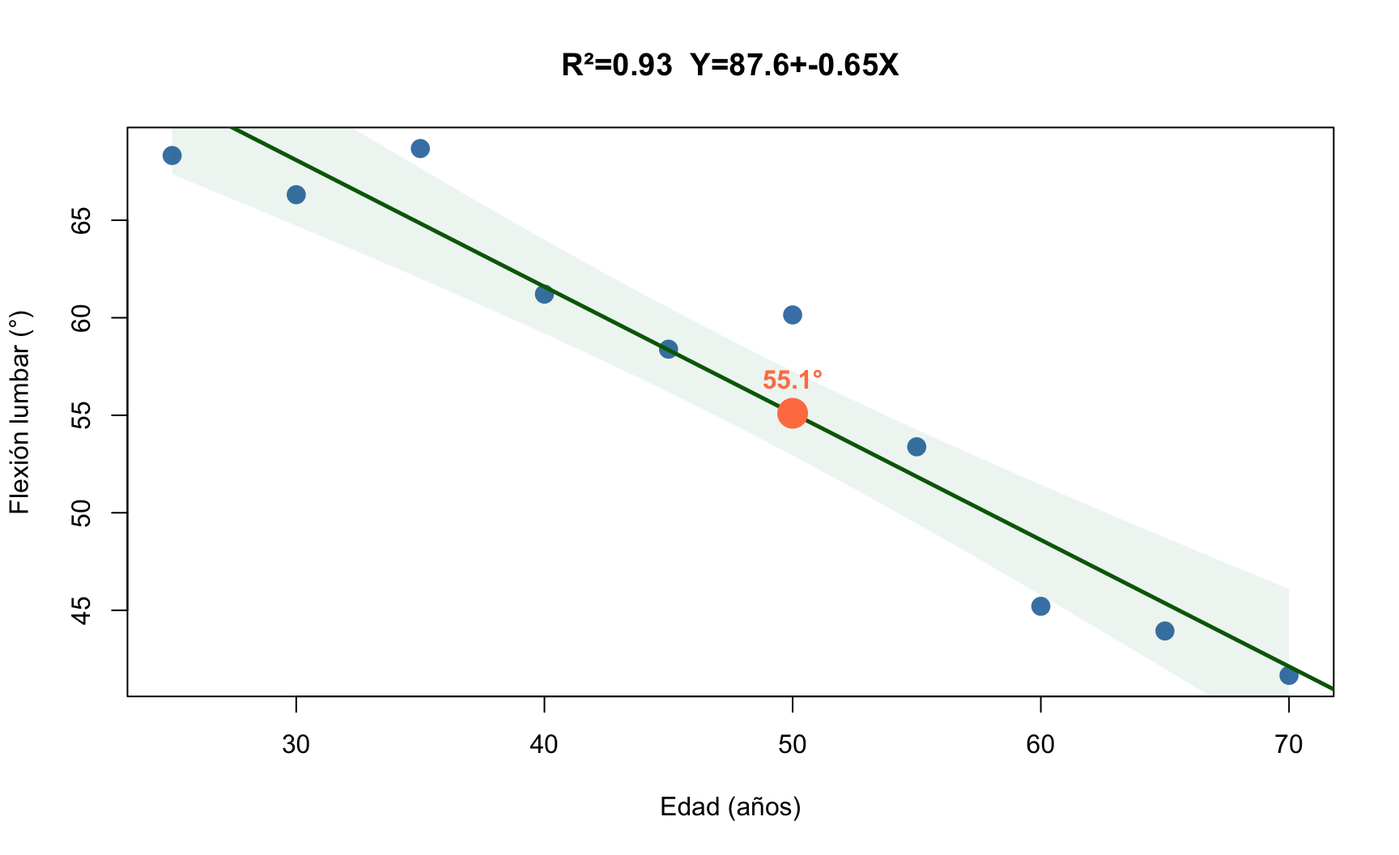
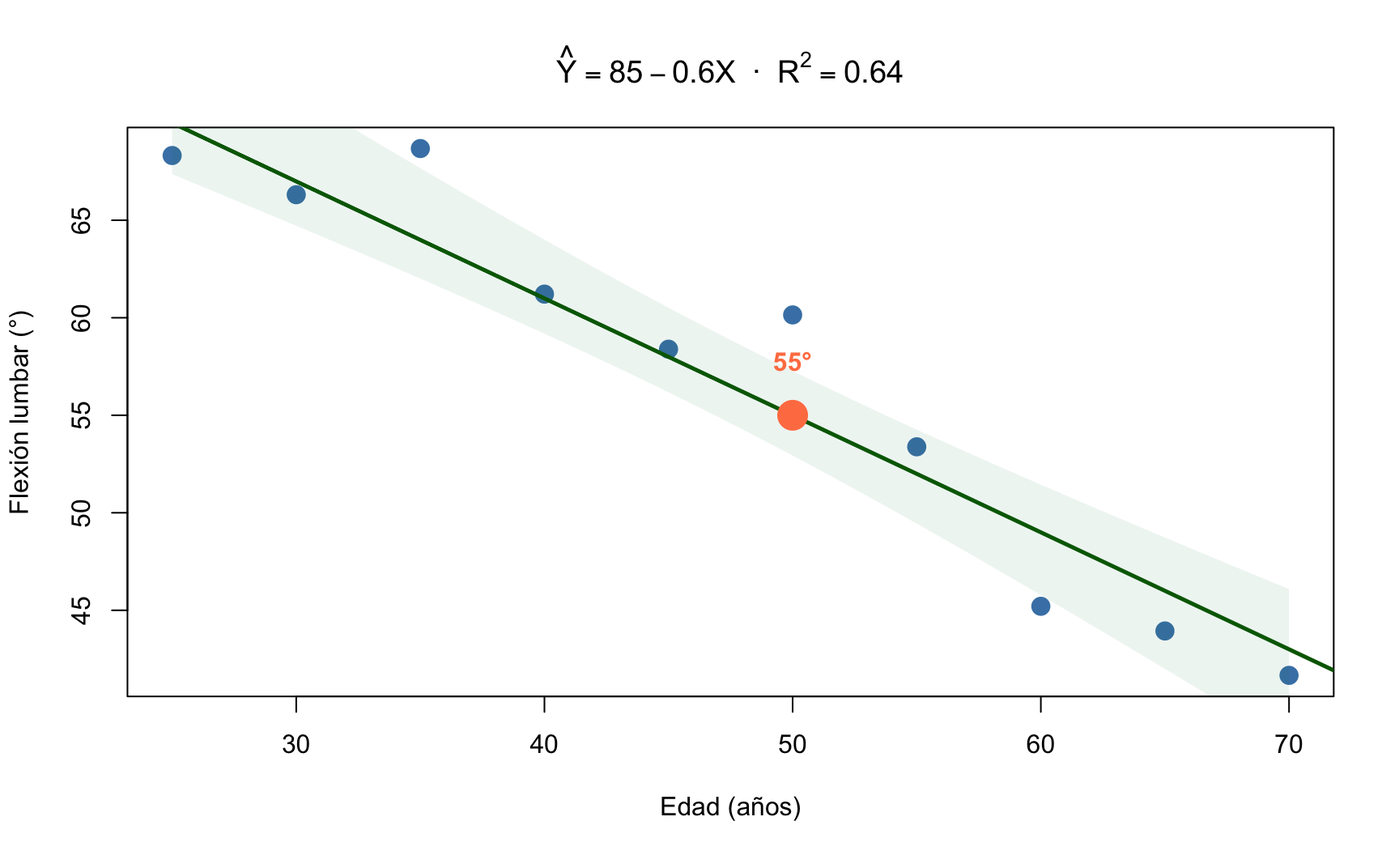
deploy: T06 code-fold + graph fix

diff --git a/gh-pages-content/T06_RegresionCorr.html b/gh-pages-content/T06_RegresionCorr.html
@@ -862,8 +862,11 @@ lm() b1 = 0.616</code></pre>
 <section id="ajuste-del-modelo-en-r-imc-vs.-graso" class="slide level2 center">
 <h2>Ajuste del modelo en R: Imc vs.&nbsp;% graso</h2>
 <div class="cell">
+<details class="code-fold">
+<summary>Mostrar código R</summary>
 <div class="code-copy-outer-scaffold"><div class="sourceCode cell-code" id="cb12"><pre class="sourceCode r code-with-copy"><code class="sourceCode r"><span id="cb12-1"><a aria-hidden="true" tabindex="-1"></a>modelo <span class="ot">&lt;-</span> <span class="fu">lm</span>(graso <span class="sc">~</span> imc)</span>
 <span id="cb12-2"><a aria-hidden="true" tabindex="-1"></a><span class="fu">summary</span>(modelo)</span></code></pre></div><button title="Copiar al portapapeles" class="code-copy-button"><i class="bi"></i></button></div>
+</details>
 <div class="cell-output cell-output-stdout">
 <pre><code>
 Call:
@@ -884,6 +887,8 @@ Residual standard error: 5.547 on 10 degrees of freedom
 Multiple R-squared:  0.3726,    Adjusted R-squared:  0.3099 
 F-statistic:  5.94 on 1 and 10 DF,  p-value: 0.03502</code></pre>
 </div>
+<details class="code-fold">
+<summary>Mostrar código R</summary>
 <div class="code-copy-outer-scaffold"><div class="sourceCode cell-code" id="cb14"><pre class="sourceCode r code-with-copy"><code class="sourceCode r"><span id="cb14-1"><a aria-hidden="true" tabindex="-1"></a><span class="co"># Visualización</span></span>
 <span id="cb14-2"><a aria-hidden="true" tabindex="-1"></a><span class="fu">par</span>(<span class="at">mfrow=</span><span class="fu">c</span>(<span class="dv">1</span>,<span class="dv">2</span>), <span class="at">mar=</span><span class="fu">c</span>(<span class="dv">4</span>,<span class="dv">4</span>,<span class="dv">3</span>,<span class="dv">1</span>))</span>
 <span id="cb14-3"><a aria-hidden="true" tabindex="-1"></a><span class="co"># Scatter + recta</span></span>
@@ -895,8 +900,12 @@ F-statistic:  5.94 on 1 and 10 DF,  p-value: 0.03502</code></pre>
 <span id="cb14-9"><a aria-hidden="true" tabindex="-1"></a><span class="fu">plot</span>(<span class="fu">fitted</span>(modelo), <span class="fu">residuals</span>(modelo), <span class="at">pch=</span><span class="dv">19</span>, <span class="at">col=</span><span class="st">"steelblue"</span>,</span>
 <span id="cb14-10"><a aria-hidden="true" tabindex="-1"></a>     <span class="at">main=</span><span class="st">"Residuos vs Ajustados"</span>, <span class="at">xlab=</span><span class="st">"Ajustados"</span>, <span class="at">ylab=</span><span class="st">"Residuos"</span>)</span>
 <span id="cb14-11"><a aria-hidden="true" tabindex="-1"></a><span class="fu">abline</span>(<span class="at">h=</span><span class="dv">0</span>, <span class="at">col=</span><span class="st">"grey"</span>, <span class="at">lty=</span><span class="dv">2</span>)</span></code></pre></div><button title="Copiar al portapapeles" class="code-copy-button"><i class="bi"></i></button></div>
+</details>
 
+<details class="code-fold">
+<summary>Mostrar código R</summary>
 <div class="code-copy-outer-scaffold"><div class="sourceCode cell-code" id="cb15"><pre class="sourceCode r code-with-copy"><code class="sourceCode r"><span id="cb15-1"><a aria-hidden="true" tabindex="-1"></a><span class="fu">par</span>(<span class="at">mfrow=</span><span class="fu">c</span>(<span class="dv">1</span>,<span class="dv">1</span>))</span></code></pre></div><button title="Copiar al portapapeles" class="code-copy-button"><i class="bi"></i></button></div>
+</details>
 </div>
 <img data-src="T06_RegresionCorr_files/figure-revealjs/unnamed-chunk-7-1.png" width="864" class="r-stretch"><p><strong>Resultados:</strong> - <span class="math inline">\(\hat{\beta}_0 = -13.96\)</span> (intercepto), <span class="math inline">\(\hat{\beta}_1 = 1.52\)</span> (pendiente) - <span class="math inline">\(R^2 = 0.373\)</span> (37.3% de variabilidad explicada), Error estándar residual <span class="math inline">\(s = 5.55\)</span> - <span class="math inline">\(P = 0.035\)</span> (pendiente significativa)</p>
 <p><strong>Interpretación:</strong> Por cada unidad de aumento en el IMC (kg/m²), el % de masa grasa aumenta en <strong>1.52 puntos porcentuales</strong> (IC 95%: 0.13 a 2.92).</p>
@@ -993,9 +1002,8 @@ summary(modelo)$sigma = 5.55</code></pre>
 
 <details class="code-fold">
 <summary>Mostrar código R</summary>
-<div class="code-copy-outer-scaffold"><div class="sourceCode cell-code" id="cb21"><pre class="sourceCode r code-with-copy"><code class="sourceCode r"><span id="cb21-1"><a aria-hidden="true" tabindex="-1"></a><span class="co">#| code-fold: false</span></span>
-<span id="cb21-2"><a aria-hidden="true" tabindex="-1"></a><span class="co"># Predicción para IMC = 22</span></span>
-<span id="cb21-3"><a aria-hidden="true" tabindex="-1"></a><span class="fu">predict</span>(modelo, <span class="at">newdata=</span><span class="fu">data.frame</span>(<span class="at">imc=</span><span class="dv">22</span>))</span></code></pre></div><button title="Copiar al portapapeles" class="code-copy-button"><i class="bi"></i></button></div>
+<div class="code-copy-outer-scaffold"><div class="sourceCode cell-code" id="cb21"><pre class="sourceCode r code-with-copy"><code class="sourceCode r"><span id="cb21-1"><a aria-hidden="true" tabindex="-1"></a><span class="co"># Predicción para IMC = 22</span></span>
+<span id="cb21-2"><a aria-hidden="true" tabindex="-1"></a><span class="fu">predict</span>(modelo, <span class="at">newdata=</span><span class="fu">data.frame</span>(<span class="at">imc=</span><span class="dv">22</span>))</span></code></pre></div><button title="Copiar al portapapeles" class="code-copy-button"><i class="bi"></i></button></div>
 </details>
 <div class="cell-output cell-output-stdout">
 <pre><code>       1 
@@ -1176,12 +1184,18 @@ sample estimates:
 <section id="correlación-en-r-pearson-y-spearman" class="slide level2 center">
 <h2>Correlación en R: Pearson y Spearman</h2>
 <div class="cell">
+<details class="code-fold">
+<summary>Mostrar código R</summary>
 <div class="code-copy-outer-scaffold"><div class="sourceCode cell-code" id="cb27"><pre class="sourceCode r code-with-copy"><code class="sourceCode r"><span id="cb27-1"><a aria-hidden="true" tabindex="-1"></a><span class="co"># Correlación de Pearson (paramétrica, lineal)</span></span>
 <span id="cb27-2"><a aria-hidden="true" tabindex="-1"></a><span class="fu">cor</span>(imc, graso)                    <span class="co"># r = 0.610</span></span></code></pre></div><button title="Copiar al portapapeles" class="code-copy-button"><i class="bi"></i></button></div>
+</details>
 <div class="cell-output cell-output-stdout">
 <pre><code>[1] 0.6104341</code></pre>
 </div>
+<details class="code-fold">
+<summary>Mostrar código R</summary>
 <div class="code-copy-outer-scaffold"><div class="sourceCode cell-code" id="cb29"><pre class="sourceCode r code-with-copy"><code class="sourceCode r"><span id="cb29-1"><a aria-hidden="true" tabindex="-1"></a><span class="fu">cor.test</span>(imc, graso)               <span class="co"># Test H0: ρ = 0</span></span></code></pre></div><button title="Copiar al portapapeles" class="code-copy-button"><i class="bi"></i></button></div>
+</details>
 <div class="cell-output cell-output-stdout">
 <pre><code>
     Pearson's product-moment correlation
@@ -1195,12 +1209,18 @@ sample estimates:
       cor 
 0.6104341 </code></pre>
 </div>
+<details class="code-fold">
+<summary>Mostrar código R</summary>
 <div class="code-copy-outer-scaffold"><div class="sourceCode cell-code" id="cb31"><pre class="sourceCode r code-with-copy"><code class="sourceCode r"><span id="cb31-1"><a aria-hidden="true" tabindex="-1"></a><span class="co"># Correlación de Spearman (no paramétrica, monótona)</span></span>
 <span id="cb31-2"><a aria-hidden="true" tabindex="-1"></a><span class="fu">cor</span>(imc, graso, <span class="at">method=</span><span class="st">"spearman"</span>)</span></code></pre></div><button title="Copiar al portapapeles" class="code-copy-button"><i class="bi"></i></button></div>
+</details>
 <div class="cell-output cell-output-stdout">
 <pre><code>[1] 0.5314685</code></pre>
 </div>
+<details class="code-fold">
+<summary>Mostrar código R</summary>
 <div class="code-copy-outer-scaffold"><div class="sourceCode cell-code" id="cb33"><pre class="sourceCode r code-with-copy"><code class="sourceCode r"><span id="cb33-1"><a aria-hidden="true" tabindex="-1"></a><span class="fu">cor.test</span>(imc, graso, <span class="at">method=</span><span class="st">"spearman"</span>)</span></code></pre></div><button title="Copiar al portapapeles" class="code-copy-button"><i class="bi"></i></button></div>
+</details>
 <div class="cell-output cell-output-stdout">
 <pre><code>
     Spearman's rank correlation rho
@@ -1641,8 +1661,11 @@ R: b0= -0.21  b1= 0.616</code></pre>
 </table>
 <p><span class="math display">\[R^2 = \frac{SC_{reg}}{SC_{tot}} = 1 - \frac{SC_{res}}{SC_{tot}}\]</span></p>
 <div class="cell">
+<details class="code-fold">
+<summary>Mostrar código R</summary>
 <div class="code-copy-outer-scaffold"><div class="sourceCode cell-code" id="cb45"><pre class="sourceCode r code-with-copy"><code class="sourceCode r"><span id="cb45-1"><a aria-hidden="true" tabindex="-1"></a>anova_modelo <span class="ot">&lt;-</span> <span class="fu">anova</span>(modelo)</span>
 <span id="cb45-2"><a aria-hidden="true" tabindex="-1"></a><span class="fu">print</span>(anova_modelo)</span></code></pre></div><button title="Copiar al portapapeles" class="code-copy-button"><i class="bi"></i></button></div>
+</details>
 <div class="cell-output cell-output-stdout">
 <pre><code>Analysis of Variance Table
 
@@ -1653,8 +1676,11 @@ Residuals 10 307.73  30.773
 ---
 Signif. codes:  0 '***' 0.001 '**' 0.01 '*' 0.05 '.' 0.1 ' ' 1</code></pre>
 </div>
+<details class="code-fold">
+<summary>Mostrar código R</summary>
 <div class="code-copy-outer-scaffold"><div class="sourceCode cell-code" id="cb47"><pre class="sourceCode r code-with-copy"><code class="sourceCode r"><span id="cb47-1"><a aria-hidden="true" tabindex="-1"></a><span class="fu">cat</span>(<span class="st">"R² ="</span>, <span class="fu">round</span>(s<span class="sc">$</span>r.squared, <span class="dv">4</span>),</span>
 <span id="cb47-2"><a aria-hidden="true" tabindex="-1"></a>    <span class="st">"</span><span class="sc">\n</span><span class="st">R² ajustado ="</span>, <span class="fu">round</span>(s<span class="sc">$</span>adj.r.squared, <span class="dv">4</span>))</span></code></pre></div><button title="Copiar al portapapeles" class="code-copy-button"><i class="bi"></i></button></div>
+</details>
 <div class="cell-output cell-output-stdout">
 <pre><code>R² = 0.3726 
 R² ajustado = 0.3099</code></pre>
@@ -1713,8 +1739,11 @@ R² ajustado = 0.3099</code></pre>
 <p><strong>Test F:</strong> <span class="math inline">\(H_0: \beta_1 = 0\)</span> (no hay relación lineal) vs <span class="math inline">\(H_1: \beta_1 \neq 0\)</span></p>
 <p><span class="math display">\[F = \frac{CM_{reg}}{CM_{res}} \sim F_{1, n-2}\]</span></p>
 <div class="cell">
+<details class="code-fold">
+<summary>Mostrar código R</summary>
 <div class="code-copy-outer-scaffold"><div class="sourceCode cell-code" id="cb49"><pre class="sourceCode r code-with-copy"><code class="sourceCode r"><span id="cb49-1"><a aria-hidden="true" tabindex="-1"></a>anova_modelo <span class="ot">&lt;-</span> <span class="fu">anova</span>(modelo)</span>
 <span id="cb49-2"><a aria-hidden="true" tabindex="-1"></a><span class="fu">print</span>(anova_modelo)</span></code></pre></div><button title="Copiar al portapapeles" class="code-copy-button"><i class="bi"></i></button></div>
+</details>
 <div class="cell-output cell-output-stdout">
 <pre><code>Analysis of Variance Table
 
@@ -1725,9 +1754,12 @@ Residuals 10 307.73  30.773
 ---
 Signif. codes:  0 '***' 0.001 '**' 0.01 '*' 0.05 '.' 0.1 ' ' 1</code></pre>
 </div>
+<details class="code-fold">
+<summary>Mostrar código R</summary>
 <div class="code-copy-outer-scaffold"><div class="sourceCode cell-code" id="cb51"><pre class="sourceCode r code-with-copy"><code class="sourceCode r"><span id="cb51-1"><a aria-hidden="true" tabindex="-1"></a><span class="fu">cat</span>(<span class="st">"</span><span class="sc">\n</span><span class="st">R² ="</span>, <span class="fu">round</span>(<span class="fu">summary</span>(modelo)<span class="sc">$</span>r.squared, <span class="dv">4</span>),</span>
 <span id="cb51-2"><a aria-hidden="true" tabindex="-1"></a>    <span class="st">"</span><span class="sc">\n</span><span class="st">R² ajustado ="</span>, <span class="fu">round</span>(<span class="fu">summary</span>(modelo)<span class="sc">$</span>adj.r.squared, <span class="dv">4</span>),</span>
 <span id="cb51-3"><a aria-hidden="true" tabindex="-1"></a>    <span class="st">"</span><span class="sc">\n</span><span class="st">Error estándar residual ="</span>, <span class="fu">round</span>(<span class="fu">summary</span>(modelo)<span class="sc">$</span>sigma, <span class="dv">2</span>))</span></code></pre></div><button title="Copiar al portapapeles" class="code-copy-button"><i class="bi"></i></button></div>
+</details>
 <div class="cell-output cell-output-stdout">
 <pre><code>
 R² = 0.3726 
@@ -2019,9 +2051,12 @@ P = 5e-04</code></pre>
 </div>
 <p><strong>Matriz de correlaciones de Pearson:</strong></p>
 <div class="cell">
+<details class="code-fold">
+<summary>Mostrar código R</summary>
 <div class="code-copy-outer-scaffold"><div class="sourceCode cell-code" id="cb67"><pre class="sourceCode r code-with-copy"><code class="sourceCode r"><span id="cb67-1"><a aria-hidden="true" tabindex="-1"></a>R <span class="ot">&lt;-</span> <span class="fu">cor</span>(datos_clinicos)</span>
 <span id="cb67-2"><a aria-hidden="true" tabindex="-1"></a>knitr<span class="sc">::</span><span class="fu">kable</span>(<span class="fu">round</span>(R, <span class="dv">3</span>), <span class="at">format =</span> <span class="st">"pipe"</span>, <span class="at">align =</span> <span class="st">"c"</span>,</span>
 <span id="cb67-3"><a aria-hidden="true" tabindex="-1"></a>             <span class="at">caption =</span> <span class="st">"Matriz de correlaciones — Datos clínicos"</span>)</span></code></pre></div><button title="Copiar al portapapeles" class="code-copy-button"><i class="bi"></i></button></div>
+</details>
 <div class="cell-output-display">
 <table class="caption-top">
 <caption>Matriz de correlaciones — Datos clínicos</caption>
@@ -2577,22 +2612,22 @@ max  8.592  1.619
 <div class="code-copy-outer-scaffold"><div class="sourceCode cell-code" id="cb85"><pre class="sourceCode r code-with-copy"><code class="sourceCode r"><span id="cb85-1"><a aria-hidden="true" tabindex="-1"></a><span class="fu">set.seed</span>(<span class="dv">123</span>)</span>
 <span id="cb85-2"><a aria-hidden="true" tabindex="-1"></a>edad <span class="ot">&lt;-</span> <span class="fu">seq</span>(<span class="dv">25</span>, <span class="dv">70</span>, <span class="at">length.out=</span><span class="dv">10</span>)</span>
 <span id="cb85-3"><a aria-hidden="true" tabindex="-1"></a>flexion <span class="ot">&lt;-</span> <span class="dv">85</span> <span class="sc">-</span> <span class="fl">0.6</span><span class="sc">*</span>edad <span class="sc">+</span> <span class="fu">rnorm</span>(<span class="dv">10</span>, <span class="dv">0</span>, <span class="dv">3</span>)</span>
-<span id="cb85-4"><a aria-hidden="true" tabindex="-1"></a>modelo <span class="ot">&lt;-</span> <span class="fu">lm</span>(flexion <span class="sc">~</span> edad)</span>
-<span id="cb85-5"><a aria-hidden="true" tabindex="-1"></a>pred_50 <span class="ot">&lt;-</span> <span class="fu">predict</span>(modelo, <span class="fu">data.frame</span>(<span class="at">edad=</span><span class="dv">50</span>))</span>
+<span id="cb85-4"><a aria-hidden="true" tabindex="-1"></a><span class="co"># Predicción con el modelo teórico: Y = 85 - 0.6X</span></span>
+<span id="cb85-5"><a aria-hidden="true" tabindex="-1"></a>pred_50 <span class="ot">&lt;-</span> <span class="dv">85</span> <span class="sc">-</span> <span class="fl">0.6</span> <span class="sc">*</span> <span class="dv">50</span></span>
 <span id="cb85-6"><a aria-hidden="true" tabindex="-1"></a></span>
 <span id="cb85-7"><a aria-hidden="true" tabindex="-1"></a><span class="fu">plot</span>(edad, flexion, <span class="at">pch=</span><span class="dv">19</span>, <span class="at">col=</span><span class="st">"steelblue"</span>, <span class="at">cex=</span><span class="fl">1.5</span>,</span>
-<span id="cb85-8"><a aria-hidden="true" tabindex="-1"></a>     <span class="at">main=</span><span class="fu">paste0</span>(<span class="st">"R²="</span>, <span class="fu">round</span>(<span class="fu">summary</span>(modelo)<span class="sc">$</span>r.squared,<span class="dv">2</span>),</span>
-<span id="cb85-9"><a aria-hidden="true" tabindex="-1"></a>                 <span class="st">"  Y="</span>, <span class="fu">round</span>(<span class="fu">coef</span>(modelo)[<span class="dv">1</span>],<span class="dv">1</span>), <span class="st">"+"</span>, <span class="fu">round</span>(<span class="fu">coef</span>(modelo)[<span class="dv">2</span>],<span class="dv">2</span>),<span class="st">"X"</span>),</span>
-<span id="cb85-10"><a aria-hidden="true" tabindex="-1"></a>     <span class="at">xlab=</span><span class="st">"Edad (años)"</span>, <span class="at">ylab=</span><span class="st">"Flexión lumbar (°)"</span>)</span>
-<span id="cb85-11"><a aria-hidden="true" tabindex="-1"></a><span class="fu">abline</span>(modelo, <span class="at">col=</span><span class="st">"darkgreen"</span>, <span class="at">lwd=</span><span class="fl">2.5</span>)</span>
-<span id="cb85-12"><a aria-hidden="true" tabindex="-1"></a><span class="co"># Banda de confianza</span></span>
+<span id="cb85-8"><a aria-hidden="true" tabindex="-1"></a>     <span class="at">main=</span><span class="fu">expression</span>(<span class="fu">hat</span>(Y) <span class="sc">==</span> <span class="dv">85</span> <span class="sc">-</span> <span class="fl">0.6</span><span class="sc">*</span>X <span class="sc">~</span><span class="er">~</span> <span class="st">"·"</span> <span class="sc">~</span><span class="er">~</span> R<span class="sc">^</span><span class="dv">2</span> <span class="sc">==</span> <span class="fl">0.64</span>),</span>
+<span id="cb85-9"><a aria-hidden="true" tabindex="-1"></a>     <span class="at">xlab=</span><span class="st">"Edad (años)"</span>, <span class="at">ylab=</span><span class="st">"Flexión lumbar (°)"</span>)</span>
+<span id="cb85-10"><a aria-hidden="true" tabindex="-1"></a><span class="fu">abline</span>(<span class="at">a=</span><span class="dv">85</span>, <span class="at">b=</span><span class="sc">-</span><span class="fl">0.6</span>, <span class="at">col=</span><span class="st">"darkgreen"</span>, <span class="at">lwd=</span><span class="fl">2.5</span>)</span>
+<span id="cb85-11"><a aria-hidden="true" tabindex="-1"></a><span class="co"># Banda de confianza (IC 95% para la media)</span></span>
+<span id="cb85-12"><a aria-hidden="true" tabindex="-1"></a>modelo <span class="ot">&lt;-</span> <span class="fu">lm</span>(flexion <span class="sc">~</span> edad)</span>
 <span id="cb85-13"><a aria-hidden="true" tabindex="-1"></a>newx <span class="ot">&lt;-</span> <span class="fu">seq</span>(<span class="dv">25</span>, <span class="dv">70</span>, <span class="at">length=</span><span class="dv">50</span>)</span>
 <span id="cb85-14"><a aria-hidden="true" tabindex="-1"></a>preds <span class="ot">&lt;-</span> <span class="fu">predict</span>(modelo, <span class="fu">data.frame</span>(<span class="at">edad=</span>newx), <span class="at">interval=</span><span class="st">"confidence"</span>)</span>
 <span id="cb85-15"><a aria-hidden="true" tabindex="-1"></a><span class="fu">polygon</span>(<span class="fu">c</span>(newx, <span class="fu">rev</span>(newx)), <span class="fu">c</span>(preds[,<span class="dv">2</span>], <span class="fu">rev</span>(preds[,<span class="dv">3</span>])),</span>
 <span id="cb85-16"><a aria-hidden="true" tabindex="-1"></a>        <span class="at">col=</span><span class="fu">rgb</span>(<span class="dv">0</span>,<span class="fl">0.5</span>,<span class="fl">0.3</span>,<span class="fl">0.08</span>), <span class="at">border=</span><span class="cn">NA</span>)</span>
-<span id="cb85-17"><a aria-hidden="true" tabindex="-1"></a><span class="co"># Predicción destacada</span></span>
+<span id="cb85-17"><a aria-hidden="true" tabindex="-1"></a><span class="co"># Predicción destacada a los 50 años</span></span>
 <span id="cb85-18"><a aria-hidden="true" tabindex="-1"></a><span class="fu">points</span>(<span class="dv">50</span>, pred_50, <span class="at">pch=</span><span class="dv">19</span>, <span class="at">col=</span><span class="st">"coral"</span>, <span class="at">cex=</span><span class="fl">2.5</span>)</span>
-<span id="cb85-19"><a aria-hidden="true" tabindex="-1"></a><span class="fu">text</span>(<span class="dv">50</span>, pred_50<span class="fl">+0.5</span>, <span class="fu">paste0</span>(<span class="fu">round</span>(pred_50,<span class="dv">1</span>),<span class="st">"°"</span>), <span class="at">col=</span><span class="st">"coral"</span>, <span class="at">font=</span><span class="dv">2</span>, <span class="at">pos=</span><span class="dv">3</span>)</span></code></pre></div><button title="Copiar al portapapeles" class="code-copy-button"><i class="bi"></i></button></div>
+<span id="cb85-19"><a aria-hidden="true" tabindex="-1"></a><span class="fu">text</span>(<span class="dv">50</span>, pred_50<span class="fl">+1.5</span>, <span class="fu">paste0</span>(pred_50,<span class="st">"°"</span>), <span class="at">col=</span><span class="st">"coral"</span>, <span class="at">font=</span><span class="dv">2</span>, <span class="at">pos=</span><span class="dv">3</span>)</span></code></pre></div><button title="Copiar al portapapeles" class="code-copy-button"><i class="bi"></i></button></div>
 </details>
 <div class="cell-output-display">
 <div>
@@ -2603,12 +2638,14 @@ max  8.592  1.619
 </div>
 <details class="code-fold">
 <summary>Mostrar código R</summary>
-<div class="code-copy-outer-scaffold"><div class="sourceCode cell-code" id="cb86"><pre class="sourceCode r code-with-copy"><code class="sourceCode r"><span id="cb86-1"><a aria-hidden="true" tabindex="-1"></a><span class="fu">cat</span>(<span class="st">"R² ="</span>, <span class="fu">round</span>(<span class="fu">summary</span>(modelo)<span class="sc">$</span>r.squared,<span class="dv">3</span>),</span>
-<span id="cb86-2"><a aria-hidden="true" tabindex="-1"></a>    <span class="st">"</span><span class="sc">\n</span><span class="st">Predicción 50 años:"</span>, <span class="fu">round</span>(pred_50,<span class="dv">1</span>), <span class="st">"°"</span>)</span></code></pre></div><button title="Copiar al portapapeles" class="code-copy-button"><i class="bi"></i></button></div>
+<div class="code-copy-outer-scaffold"><div class="sourceCode cell-code" id="cb86"><pre class="sourceCode r code-with-copy"><code class="sourceCode r"><span id="cb86-1"><a aria-hidden="true" tabindex="-1"></a><span class="fu">cat</span>(<span class="st">"Ecuación teórica: Ŷ = 85 - 0.6X"</span>,</span>
+<span id="cb86-2"><a aria-hidden="true" tabindex="-1"></a>    <span class="st">"</span><span class="sc">\n</span><span class="st">R² teórico = 0.64"</span>,</span>
+<span id="cb86-3"><a aria-hidden="true" tabindex="-1"></a>    <span class="st">"</span><span class="sc">\n</span><span class="st">Predicción a 50 años: 85 - 0.6×50 ="</span>, pred_50, <span class="st">"°"</span>)</span></code></pre></div><button title="Copiar al portapapeles" class="code-copy-button"><i class="bi"></i></button></div>
 </details>
 <div class="cell-output cell-output-stdout">
-<pre><code>R² = 0.927 
-Predicción 50 años: 55.1 °</code></pre>
+<pre><code>Ecuación teórica: Ŷ = 85 - 0.6X 
+R² teórico = 0.64 
+Predicción a 50 años: 85 - 0.6×50 = 55 °</code></pre>
 </div>
 </div>
 </div>
@@ -2632,7 +2669,7 @@ Predicción 50 años: 55.1 °</code></pre>
 <span id="cb88-2"><a aria-hidden="true" tabindex="-1"></a>imc <span class="ot">&lt;-</span> <span class="fu">c</span>(<span class="dv">22</span>, <span class="dv">25</span>, <span class="dv">28</span>, <span class="dv">24</span>, <span class="dv">30</span>, <span class="dv">27</span>, <span class="dv">26</span>, <span class="dv">32</span>, <span class="dv">29</span>, <span class="dv">31</span>)</span>
 <span id="cb88-3"><a aria-hidden="true" tabindex="-1"></a>graso <span class="ot">&lt;-</span> <span class="fu">c</span>(<span class="dv">18</span>, <span class="dv">22</span>, <span class="dv">26</span>, <span class="dv">20</span>, <span class="dv">30</span>, <span class="dv">24</span>, <span class="dv">23</span>, <span class="dv">33</span>, <span class="dv">27</span>, <span class="dv">31</span>)</span>
 <span id="cb88-4"><a aria-hidden="true" tabindex="-1"></a></span>
-<span id="cb88-5"><a aria-hidden="true" tabindex="-1"></a><span class="co">#| code-fold: false</span></span>
+<span id="cb88-5"><a aria-hidden="true" tabindex="-1"></a></span>
 <span id="cb88-6"><a aria-hidden="true" tabindex="-1"></a><span class="co"># Correlación de Pearson</span></span>
 <span id="cb88-7"><a aria-hidden="true" tabindex="-1"></a><span class="fu">cor</span>(imc, graso)</span>
 <span id="cb88-8"><a aria-hidden="true" tabindex="-1"></a><span class="fu">cor.test</span>(imc, graso)                      <span class="co"># Test de significación</span></span>
@@ -2675,6 +2712,8 @@ Predicción 50 años: 55.1 °</code></pre>
 <section id="diagnóstico-de-residuos" class="slide level2 center">
 <h2>Diagnóstico de residuos</h2>
 <div class="cell">
+<details class="code-fold">
+<summary>Mostrar código R</summary>
 <div class="code-copy-outer-scaffold"><div class="sourceCode cell-code" id="cb90"><pre class="sourceCode r code-with-copy"><code class="sourceCode r"><span id="cb90-1"><a aria-hidden="true" tabindex="-1"></a><span class="co"># Gráficos de diagnóstico</span></span>
 <span id="cb90-2"><a aria-hidden="true" tabindex="-1"></a><span class="fu">par</span>(<span class="at">mfrow =</span> <span class="fu">c</span>(<span class="dv">2</span>, <span class="dv">2</span>))</span>
 <span id="cb90-3"><a aria-hidden="true" tabindex="-1"></a><span class="fu">plot</span>(modelo)                              <span class="co"># 4 gráficos de diagnóstico</span></span>
@@ -2686,6 +2725,7 @@ Predicción 50 años: 55.1 °</code></pre>
 <span id="cb90-9"><a aria-hidden="true" tabindex="-1"></a><span class="co"># Homocedasticidad (Breusch-Pagan)</span></span>
 <span id="cb90-10"><a aria-hidden="true" tabindex="-1"></a><span class="fu">library</span>(lmtest)</span>
 <span id="cb90-11"><a aria-hidden="true" tabindex="-1"></a><span class="fu">bptest</span>(modelo)</span></code></pre></div><button title="Copiar al portapapeles" class="code-copy-button"><i class="bi"></i></button></div>
+</details>
 </div>
 </section>
 <section id="con-bioestatr" class="slide level2 smaller scrollable">
